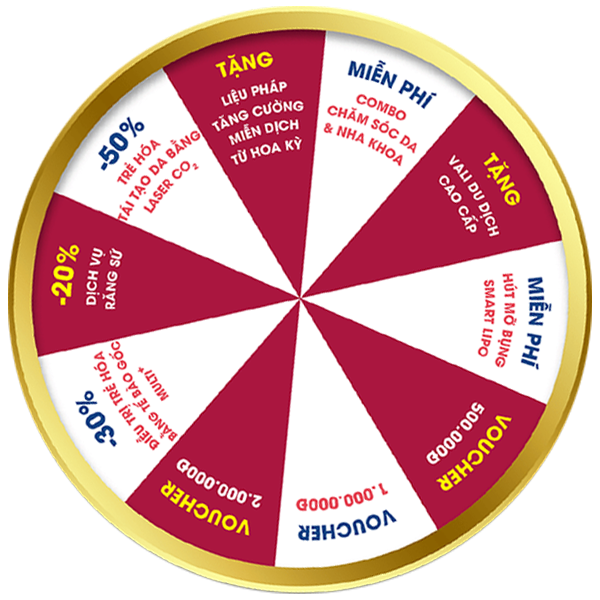
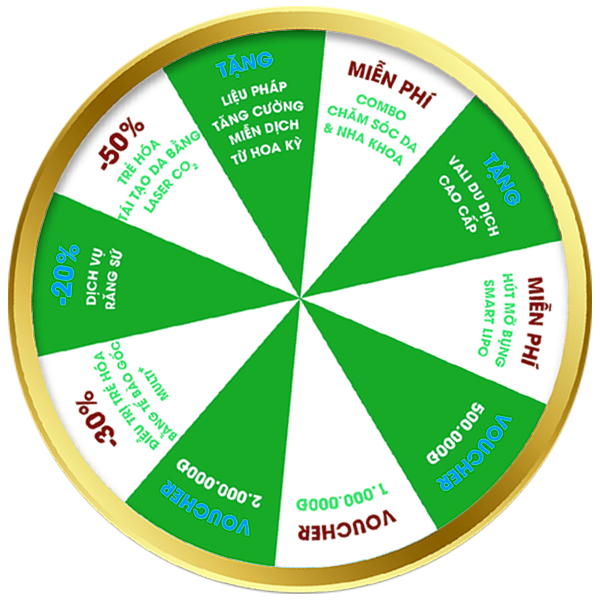
abc

diff --git a/landy pkg/landy placeholder/index.html b/landy pkg/landy placeholder/index.html
@@ -33,6 +33,8 @@
 	<link rel="stylesheet" type="text/css" href="assets/css/style.css">
 	<!-- responsive.css -->
 	<link rel="stylesheet" type="text/css" href="assets/css/responsive.css">
+
+	<link href="https://fonts.googleapis.com/css?family=Maven+Pro&display=swap" rel="stylesheet">
 	<style type="text/css">
 		.unlimit{
 		    transition: none;
@@ -98,9 +100,35 @@
 
 		.control-spin{
 			margin: -40% 40%;
-    position: absolute;
+	position: absolute;
+	/* Start the shake animation and make the animation last for 0.5 seconds */
+	animation: shake 1s;
+
+/* When the animation is finished, start again */
+animation-iteration-count: infinite;
 		}
 
+		.slogan{
+			font-size: 3em;
+			font-family: 'Maven Pro', sans-serif;
+			COLOR: #18734d;
+		}
+
+
+
+@keyframes shake {
+  0% { transform: translate(1px, 1px) rotate(0deg); }
+  10% { transform: translate(-1px, -2px) rotate(-1deg); }
+  20% { transform: translate(-3px, 0px) rotate(1deg); }
+  30% { transform: translate(3px, 2px) rotate(0deg); }
+  40% { transform: translate(1px, -1px) rotate(1deg); }
+  50% { transform: translate(-1px, 2px) rotate(-1deg); }
+  60% { transform: translate(-3px, 1px) rotate(0deg); }
+  70% { transform: translate(3px, 1px) rotate(-1deg); }
+  80% { transform: translate(-1px, -1px) rotate(1deg); }
+  90% { transform: translate(1px, 2px) rotate(0deg); }
+  100% { transform: translate(1px, -2px) rotate(-1deg); }
+}
 	</style>
 </head>
 
@@ -125,8 +153,8 @@
 									</div><!-- /.navbar-header -->
 
 									<!-- Collect the nav links, forms, and other content for toggling -->
-									<div>
-										PHỤNG SỰ LÀM ĐẸP CHO NGƯỜI BÌNH DƯƠNG
+									<div class="slogan">
+										THẨM MỸ VIỆN HÀN QUỐC LINA
 									</div>
 								</div><!-- /.container-fluid -->
 							</div><!-- /.navbar navbar-default -->
@@ -159,7 +187,7 @@
 							<div class="control-spin">
 									
 									<a style="font-size: 25px;color: #000;" href="javascript: void(0)" onclick="quay();" class="vtaui-btn-blue">
-										<img src="assets/img/based/btn.png"
+										<img src="assets/img/based/btn.png" onclick="quay();" >
 									</a>
 								 </div>
 						</div>
@@ -398,7 +426,61 @@
 	<!-- End of banner section  
 		============================================= -->
 
-
+<!-- Start of showcase section  
+		============================================= -->
+		<section id="showcase" class="showcase-section">
+			<div class="container">
+				<div class="row section-content">
+					<div class="showcase-content">
+						<div class="section-title text-center pb50">
+							<span class="title-text green text-uppercase">LOVE TO SEE</span>
+							<h1 class="title deep-black pb40">Our Showcase</h1>
+						</div>
+						<!-- //section-title -->
+						<div class="showcase-slider">
+							<div class="showcase-img">
+								<img src="assets/img/showcase/show-1.jpg" alt="img">
+							</div>
+							<div class="showcase-img">
+								<img src="assets/img/showcase/show-2.jpg" alt="img">
+							</div>
+							<div class="showcase-img">
+								<img src="assets/img/showcase/show-3.jpg" alt="img">
+							</div>
+							<div class="showcase-img">
+								<img src="assets/img/showcase/show-4.jpg" alt="img">
+							</div>
+							<div class="showcase-img">
+								<img src="assets/img/showcase/show-1.jpg" alt="img">
+							</div>
+							<div class="showcase-img">
+								<img src="assets/img/showcase/show-2.jpg" alt="img">
+							</div>
+							<div class="showcase-img">
+								<img src="assets/img/showcase/show-3.jpg" alt="img">
+							</div>
+							<div class="showcase-img">
+								<img src="assets/img/showcase/show-4.jpg" alt="img">
+							</div>
+							<div class="showcase-img">
+								<img src="assets/img/showcase/show-1.jpg" alt="img">
+							</div>
+							<div class="showcase-img">
+								<img src="assets/img/showcase/show-2.jpg" alt="img">
+							</div>
+							<div class="showcase-img">
+								<img src="assets/img/showcase/show-3.jpg" alt="img">
+							</div>
+							<div class="showcase-img">
+								<img src="assets/img/showcase/show-4.jpg" alt="img">
+							</div>
+						</div>
+					</div><!-- /showcase-content -->
+				</div><!-- /row -->
+			</div><!-- /container -->
+		</section>
+	<!-- End of showcase section     
+		============================================= -->
 
 
 	<!-- Start of features section 
@@ -498,19 +580,19 @@
 							<div class="col-md-6">
 								<div class="about-section-text">
 									<div class="section-title text-left pb50">
-										<span class="title-text pink text-uppercase">AVAILABLE NOW</span>
-										<h1 class="title deep-black pb40">Best Landing Page Solution</h1>
+										<span class="title-text pink text-uppercase">LINA'S CEO</span>
+										<h1 class="title deep-black pb40">Mrs. Hoang Thi Lien</h1>
 										<span class="title-dec">
 											Lorem ipsum dolor sit amet, consectetur adipisicing elit, sed do eiusmod tempor incididunt ut labore et dolore magna aliqua. Ut enim ad minim veniam, quis nostrud exercitation ullamco laboris nisi ut aliquip ex ea commodo consequat. Duis aute irure dolorin.
 										</span>
 									</div>
 									<!-- //section-title -->
-									<div class="download-store ul-li">
+									<!-- <div class="download-store ul-li">
 										<ul class="store-list">
 											<li><a href="https://play.google.com/store?hl=en" target="blank"><img src="assets/img/store/google.png"></a></li>
 											<li><a href="https://itunes.apple.com/us/app/apple-store/id375380948?mt=8" target="blank"><img src="assets/img/store/apple.png"></a></li>
 										</ul>
-									</div>
+									</div> -->
 								</div>
 								<!-- //about-section-text -->
 							</div>
@@ -693,61 +775,7 @@
 
 
 
-	<!-- Start of showcase section  
-		============================================= -->
-		<section id="showcase" class="showcase-section">
-			<div class="container">
-				<div class="row section-content">
-					<div class="showcase-content">
-						<div class="section-title text-center pb50">
-							<span class="title-text pink text-uppercase">LOVE TO SEE</span>
-							<h1 class="title deep-black pb40">Our Showcase</h1>
-						</div>
-						<!-- //section-title -->
-						<div class="showcase-slider">
-							<div class="showcase-img">
-								<img src="assets/img/showcase/show-1.jpg" alt="img">
-							</div>
-							<div class="showcase-img">
-								<img src="assets/img/showcase/show-2.jpg" alt="img">
-							</div>
-							<div class="showcase-img">
-								<img src="assets/img/showcase/show-3.jpg" alt="img">
-							</div>
-							<div class="showcase-img">
-								<img src="assets/img/showcase/show-4.jpg" alt="img">
-							</div>
-							<div class="showcase-img">
-								<img src="assets/img/showcase/show-1.jpg" alt="img">
-							</div>
-							<div class="showcase-img">
-								<img src="assets/img/showcase/show-2.jpg" alt="img">
-							</div>
-							<div class="showcase-img">
-								<img src="assets/img/showcase/show-3.jpg" alt="img">
-							</div>
-							<div class="showcase-img">
-								<img src="assets/img/showcase/show-4.jpg" alt="img">
-							</div>
-							<div class="showcase-img">
-								<img src="assets/img/showcase/show-1.jpg" alt="img">
-							</div>
-							<div class="showcase-img">
-								<img src="assets/img/showcase/show-2.jpg" alt="img">
-							</div>
-							<div class="showcase-img">
-								<img src="assets/img/showcase/show-3.jpg" alt="img">
-							</div>
-							<div class="showcase-img">
-								<img src="assets/img/showcase/show-4.jpg" alt="img">
-							</div>
-						</div>
-					</div><!-- /showcase-content -->
-				</div><!-- /row -->
-			</div><!-- /container -->
-		</section>
-	<!-- End of showcase section     
-		============================================= -->
+	
 
 
 

diff --git a/landy pkg/landy placeholder/assets/css/style.css b/landy pkg/landy placeholder/assets/css/style.css
@@ -115,6 +115,10 @@ h1,h2,h3,h4,h5,h6 {
 	color: #f11965;
 }
 
+.green{
+	color: #006135;
+}
+
 @-webkit-keyframes video-icon {
 	0% {
 		-webkit-transform: translateX(-50%) translateY(-50%) translateZ(0) scale(1);
@@ -396,11 +400,11 @@ Start of showcase section
 .showcase-slider .owl-dot {
 	height: 15px;
 	width: 15px;
-	background: -moz-linear-gradient(left, #ee0979 0%, #ff6a00 100%);
-	background: -webkit-gradient(left top, right top, color-stop(0%, #ee0979), color-stop(100%, #ff6a00));
-	background: -webkit-linear-gradient(left, #ee0979 0%, #ff6a00 100%);
-	background: -o-linear-gradient(left, #ee0979 0%, #ff6a00 100%);
-	background: -ms-linear-gradient(left, #ee0979 0%, #ff6a00 100%);
+	background: -moz-linear-gradient(left, #04653d 0%, #a6ce39  100%);
+	background: -webkit-gradient(left top, right top, color-stop(0%, #04653d), color-stop(100%, #a6ce39 ));
+	background: -webkit-linear-gradient(left, #04653d 0%, #a6ce39  100%);
+	background: -o-linear-gradient(left, #04653d 0%, #a6ce39  100%);
+	background: -ms-linear-gradient(left, #04653d 0%, #a6ce39  100%);
 	border-radius: 100%;
 	display: inline-block;
 	margin-right: 10px;
@@ -438,7 +442,7 @@ Start of showcase section
 }
 .showcase-slider .owl-prev,
 .showcase-slider .owl-next span {
-	color: #ee0979;
+	color: #006135;
 }
 .showcase-slider .owl-prev {
 	left: -40px;
@@ -448,11 +452,11 @@ Start of showcase section
 }
 .showcase-slider .owl-prev:hover,
 .showcase-slider .owl-next:hover {
-	background: -moz-linear-gradient(left, #ee0979 0%, #ff6a00 100%);
-	background: -webkit-gradient(left top, right top, color-stop(0%, #ee0979), color-stop(100%, #ff6a00));
-	background: -webkit-linear-gradient(left, #ee0979 0%, #ff6a00 100%);
-	background: -o-linear-gradient(left, #ee0979 0%, #ff6a00 100%);
-	background: -ms-linear-gradient(left, #ee0979 0%, #ff6a00 100%);
+	background: -moz-linear-gradient(left, #04653d  0%, #a6ce39   100%);
+	background: -webkit-gradient(left top, right top, color-stop(0%, #04653d ), color-stop(100%, #a6ce39  ));
+	background: -webkit-linear-gradient(left, #04653d  0%, #a6ce39   100%);
+	background: -o-linear-gradient(left, #04653d  0%, #a6ce39   100%);
+	background: -ms-linear-gradient(left, #04653d  0%, #a6ce39   100%);
 }
 .showcase-slider .owl-prev:hover span,
 .showcase-slider .owl-next:hover span {

diff --git a/landy pkg/landy placeholder/assets/css/menu.css b/landy pkg/landy placeholder/assets/css/menu.css
@@ -3,6 +3,8 @@
 }
 .main-menu {
   z-index: 999;
+  height: 5em;
+  background: #ffffff;
 }
 .menu-bg-overlay {
   background: rgba(0, 0, 0, 0) -webkit-linear-gradient(left, #ee0979 0%, #ff6a00 100%) repeat scroll 0 0;
@@ -111,7 +113,7 @@ a.navbar-brand {
   padding-right: 0;
 }
 .main-menu-container.tbg.navbar-fixed-top {
-  padding-top: 25px;
+  /* padding-top: 25px; */
   transition: .3s all ease-in-out;
 }
 .main-menu-container.tbg.navbar-fixed-top.menu-bg-overlay {
